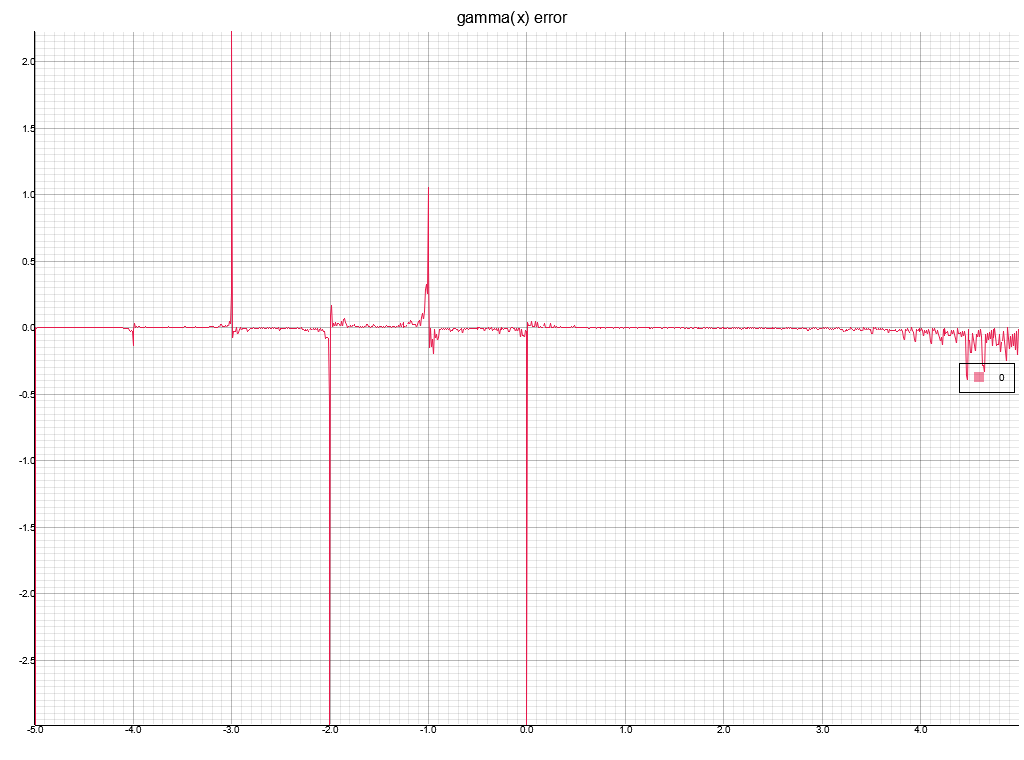
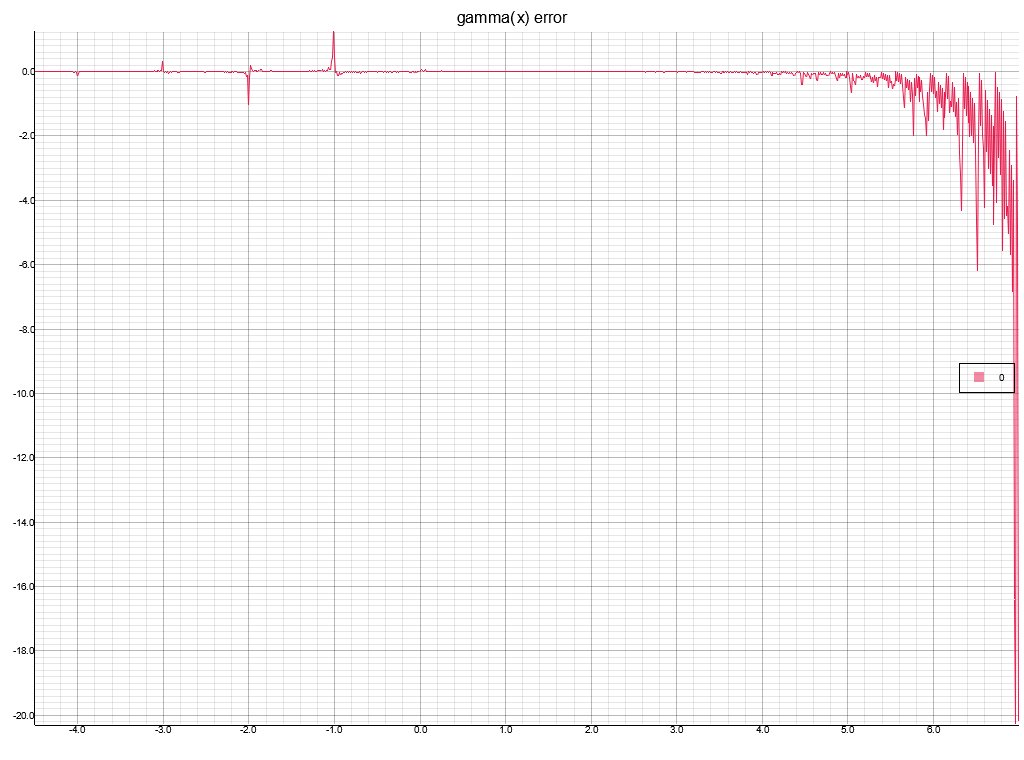
Improve accuracy for low res floats

Changed region(s): [[0.0, 0.0303, 1.0, 0.9684]]

diff --git a/src/fp/mod.rs b/src/fp/mod.rs
@@ -2634,7 +2634,12 @@ where
         let mut y = y;
         for _ in 0..NEWTON
         {
-            y = half*(y + self/y);
+            let y_ = half*(y + self/y);
+            if !y_.is_finite()
+            {
+                break
+            }
+            y = y_;
         }
         y
     }
@@ -2714,11 +2719,11 @@ where
         let e = e + Self::from_uint(Self::exp_bias());
         if e > Self::from_uint((U::one() << EXP_SIZE) - U::one())
         {
-            return Self::infinity()*z
+            return if neg {Self::zero()} else {Self::infinity()}*z
         }
         if e < Self::zero()
         {
-            return Self::zero()*z
+            return if !neg {Self::zero()} else {Self::infinity()}*z
         }
         if e.is_nan()
         {
@@ -2787,7 +2792,12 @@ where
 
             for _ in 0..NEWTON
             {
-                y -= y*(y.ln_nonewton() - self)
+                let dy = y*(y.ln_nonewton() - self);
+                if !dy.is_finite()
+                {
+                    break
+                }
+                y -= dy
             }
         }
 
@@ -2892,7 +2902,12 @@ where
 
             for _ in 0..NEWTON
             {
-                y -= Self::one() - self/y.exp()
+                let dy = Self::one() - self/y.exp();
+                if !dy.is_finite()
+                {
+                    break
+                }
+                y -= dy
             }
         }
 
@@ -2989,10 +3004,13 @@ where
         }
         
         let base = U::from(EXP_BASE).unwrap();
-        while f < U::one() << Self::MANTISSA_OP_SIZE - Self::BASE_PADDING
+        if e.is_zero() && Self::IS_INT_IMPLICIT
         {
-            y = y - Self::one();
-            f = f*base;
+            while f < U::one() << Self::MANTISSA_OP_SIZE - Self::BASE_PADDING
+            {
+                y = y - Self::one();
+                f = f*base;
+            }
         }
 
         if Self::IS_INT_IMPLICIT
@@ -3045,7 +3063,12 @@ where
 
             for _ in 0..NEWTON
             {
-                y -= (Self::one() - self/y.exp2())/Self::LN_2()
+                let dy = (Self::one() - self/y.exp2())/Self::LN_2();
+                if !dy.is_finite()
+                {
+                    break
+                }
+                y -= dy
             }
         }
 
@@ -3090,7 +3113,12 @@ where
 
             for _ in 0..NEWTON
             {
-                y -= (Self::one() - self/y.exp10())/Self::LN_10()
+                let dy = (Self::one() - self/y.exp10())/Self::LN_10();
+                if !dy.is_finite()
+                {
+                    break
+                }
+                y -= dy
             }
         }
 
@@ -3309,7 +3337,12 @@ where
         let mut y = y;
         for _ in 0..NEWTON
         {
-            y = third*(self/(y*y) + two*y);
+            let y_ = third*(self/(y*y) + two*y);
+            if !y_.is_finite()
+            {
+                break
+            }
+            y = y_;
         }
         y
     }
@@ -3371,7 +3404,7 @@ where
         {
             return Self::snan()
         }
-        if self.abs() < (-Self::from_uint(12u8)).exp2()
+        if self.abs() < <Self as From<_>>::from(0.000244140625)
         {
             return self
         }
@@ -3418,6 +3451,11 @@ where
         }
         let two = <Self as From<_>>::from(2.0);
         let w = if w > Self::one() {two - w} else if w < -Self::one() {-two - w} else {w};
+        
+        if w.abs() < <Self as From<_>>::from(1.5542474911317903883680055016847e-4)
+        {
+            return w*Self::FRAC_PI_2()
+        }
 
         let z = two*w*w - Self::one();
 
@@ -3555,8 +3593,18 @@ where
 
             for _ in 0..NEWTON
             {
-                y = y - (y.atan() - self)*(y*y + Self::one())
+                let dy = (y.atan() - self)*(y*y + Self::one());
+                if !dy.is_finite()
+                {
+                    break
+                }
+                y -= dy
             }
+        }
+
+        if y.is_nan()
+        {
+            return Self::infinity().copysign(self)
         }
 
         y
@@ -3599,7 +3647,7 @@ where
         {
             return (self - self)/(self - self)
         }
-        if xabs < (-Self::from_uint(27u8)).exp2()
+        if xabs < <Self as From<_>>::from(0.000000007450580596923828125)
         {
             return self
         }
@@ -3691,7 +3739,7 @@ where
         }
         else if xabs < <Self as From<_>>::from(0.5)
         {
-            if xabs < (-Self::from_uint(27u8)).exp2()
+            if xabs < <Self as From<_>>::from(0.000000007450580596923828125)
             {
                 self
             }
@@ -3743,7 +3791,12 @@ where
             for _ in 0..NEWTON
             {
                 let (sin, cos) = y.sin_cos();
-                y -= (sin - self)/cos
+                let dy = (sin - self)/cos;
+                if !dy.is_finite()
+                {
+                    break
+                }
+                y -= dy
             }
         }
 
@@ -3791,7 +3844,7 @@ where
         {
             return (self - self)/(self - self)
         }
-        if xabs < (-Self::from_uint(27u8)).exp2()
+        if xabs < <Self as From<_>>::from(0.00000001490116119384765625)
         {
             return Self::FRAC_PI_2() - self
         }
@@ -3876,7 +3929,7 @@ where
 
         let mut y = if xabs < <Self as From<_>>::from(0.5)
         {
-            if xabs < (-Self::from_uint(26u8)).exp2()
+            if xabs < <Self as From<_>>::from(0.00000001490116119384765625)
             {
                 <Self as From<_>>::from(PIO2_HI) + <Self as From<_>>::from(PIO2_LO)
             }
@@ -3928,7 +3981,12 @@ where
             for _ in 0..NEWTON
             {
                 let (sin, cos) = y.sin_cos();
-                y += (cos - self)/sin
+                let dy = (cos - self)/sin;
+                if !dy.is_finite()
+                {
+                    break
+                }
+                y += dy
             }
         }
 
@@ -4062,7 +4120,12 @@ where
             for _ in 0..NEWTON
             {
                 let (sin, cos) = y.sin_cos();
-                y -= (sin - cos*self)*cos
+                let dy = (sin - cos*self)*cos;
+                if !dy.is_finite()
+                {
+                    break
+                }
+                y -= dy
             }
         }
         
@@ -4241,7 +4304,12 @@ where
 
             for _ in 0..NEWTON
             {
-                y -= Self::one() - xp1/y.exp()
+                let dy = Self::one() - xp1/y.exp();
+                if !dy.is_finite()
+                {
+                    break
+                }
+                y -= dy
             }
         }
 
@@ -4280,14 +4348,31 @@ where
     
         let mut y = ((Self::one() - emx*emx)/emx*<Self as From<_>>::from(0.5)).copysign(self);
 
+        if y.is_nan()
+        {
+            let ex = (self.abs()).exp();
+        
+            y = ((ex*ex - Self::one())/ex*<Self as From<_>>::from(0.5)).copysign(self);
+        }
+
         if y.is_finite()
         {
             const NEWTON: usize = NEWTON_TRIG;
 
             for _ in 0..NEWTON
             {
-                y -= (y.asinh() - self)*(y*y + Self::one()).sqrt()
+                let dy = (y.asinh() - self)*(y*y + Self::one()).sqrt();
+                if !dy.is_finite()
+                {
+                    break
+                }
+                y -= dy
             }
+        }
+
+        if y.is_nan()
+        {
+            return Self::infinity().copysign(self)
         }
 
         y
@@ -4332,7 +4417,12 @@ where
 
             for _ in 0..NEWTON
             {
-                y -= (y.acosh() - self.abs())*(y*y - Self::one()).sqrt()
+                let dy = (y.acosh() - self.abs())*(y*y - Self::one()).sqrt();
+                if !dy.is_finite()
+                {
+                    break
+                }
+                y -= dy
             }
         }
 
@@ -4370,13 +4460,13 @@ where
         {
             return Self::one().copysign(self)
         }
+        let one = Self::one();
         let xabs = self.abs();
-        if xabs < (-Self::from_uint(27u8)).exp2()
+        if xabs < <Self as From<_>>::from(2.7755575615628913510590791702271e-17)
         {
-            return self
+            return self*(one + self)
         }
 
-        let one = Self::one();
         let ex = (-xabs).exp();
         let ex2 = ex*ex;
         let ex2p1 = one + ex2;
@@ -4402,6 +4492,10 @@ where
         if y.abs() >= Self::one()
         {
             return Self::one().copysign(y)
+        }
+        if y.is_nan()
+        {
+            return Self::one().copysign(self)
         }
 
         y
@@ -4436,12 +4530,11 @@ where
 
         let w;
         let xabs = self.abs();
-        let fourteen = Self::from_uint(14u8);
-        if xabs < (-fourteen).exp2()
+        if xabs < <Self as From<_>>::from(0.00006103515625)
         {
             return self
         }
-        if xabs > fourteen.exp2()
+        if xabs > <Self as From<_>>::from(16384.0)
         {
             if !xabs.is_finite()
             {
@@ -4502,7 +4595,7 @@ where
         }
         //(self + (self*self - Self::one()).sqrt()).ln()
 
-        if self > (Self::from_uint(28u8)).exp2()
+        if self > <Self as From<_>>::from(268435456.0)
         {
             self.ln() + Self::LN_2()
         }
@@ -4573,7 +4666,7 @@ where
         let half = <Self as From<_>>::from(0.5);
         if xabs < half
         {
-            if xabs < (-Self::from_uint(28u8)).exp2()
+            if xabs < <Self as From<_>>::from(0.0000000037252902984619140625)
             {
                 return self
             }
@@ -5241,8 +5334,8 @@ mod test
     #[test]
     fn test_gamma()
     {
-        crate::tests::test_op1("ln_gamma", |x| f32::ln_gamma(x).0, |x| Fp::ln_gamma(x).0, None, Some(-5.0..5.0));
-        crate::tests::test_op1("gamma", f32::gamma, Fp::gamma, None, Some(-5.0..5.0))
+        crate::tests::test_op1("ln_gamma", |x| f32::ln_gamma(x).0, |x| Fp::ln_gamma(x).0, None, Some(-4.5..20.0));
+        crate::tests::test_op1("gamma", f32::gamma, Fp::gamma, None, Some(-4.5..7.0))
     }
 
     #[test]

diff --git a/src/lib.rs b/src/lib.rs
@@ -237,17 +237,7 @@ mod tests
     #[test]
     fn test_convert()
     {
-        for f0 in ttable::<f32>()
-        {
-            let fp = F::from(f0);
-
-            let f1: f32 = fp.into();
-
-            if f0 != f1 && !(f0.is_nan() && f1.is_nan())
-            {
-                println!("{} != {}", f0, f1)
-            }
-        }
+        test_op1("ident", |x| x, |x| x, None, Some(-5.0..20.0))
     }
 
     #[test]

diff --git a/src/fp/float/float.rs b/src/fp/float/float.rs
@@ -420,7 +420,7 @@ mod test
     #[test]
     fn test_ln_1p()
     {
-        crate::tests::test_op1("ln_1p", Float::ln_1p, Float::ln_1p, None, Some(0.5..5.0));
+        crate::tests::test_op1("ln_1p", Float::ln_1p, Float::ln_1p, None, Some(-0.5..5.0));
     }
 
     #[test]
